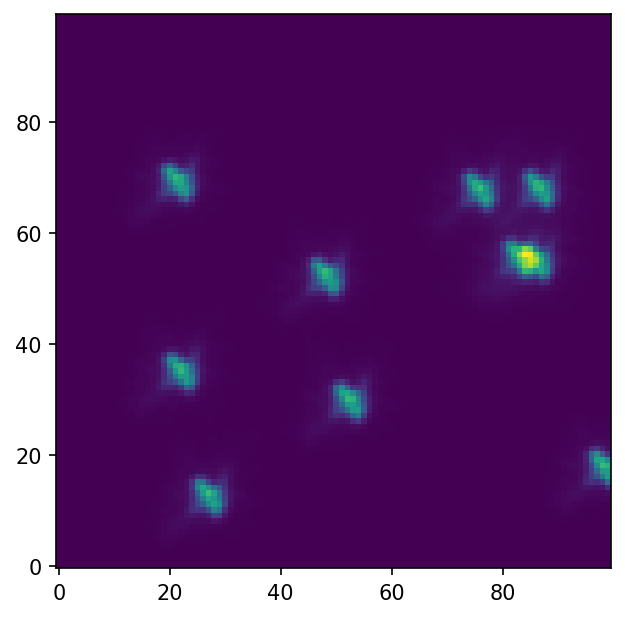
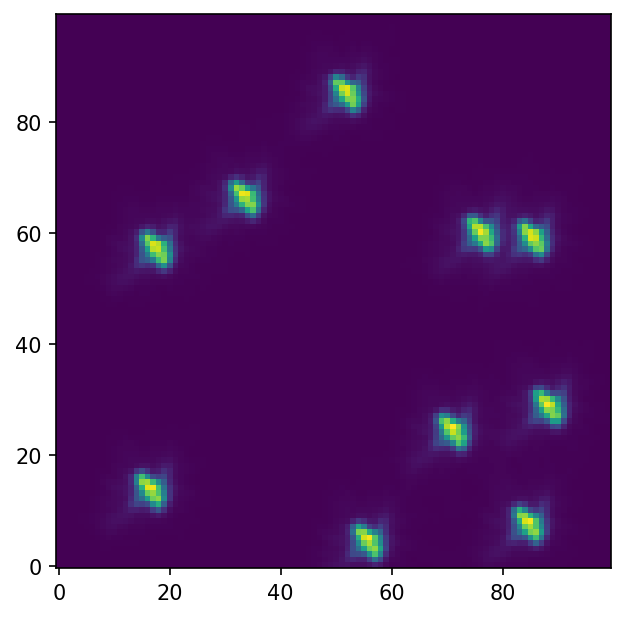
fix gradient error

diff --git a/src/pandorapsf/psf.py b/src/pandorapsf/psf.py
@@ -95,7 +95,7 @@ class PSF(object):
                     axis=(0, 1),
                 )
             )
-            * (self.sub_pixel_size / self.pixel_size).value
+            # * (self.sub_pixel_size / self.pixel_size).value
         )
 
     def _validate(self):
